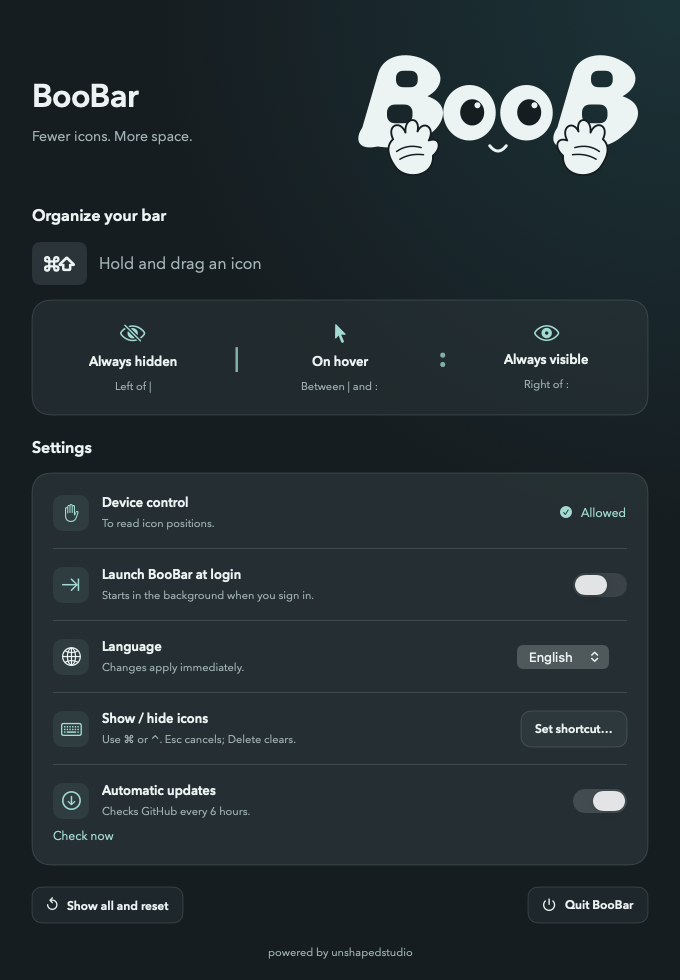
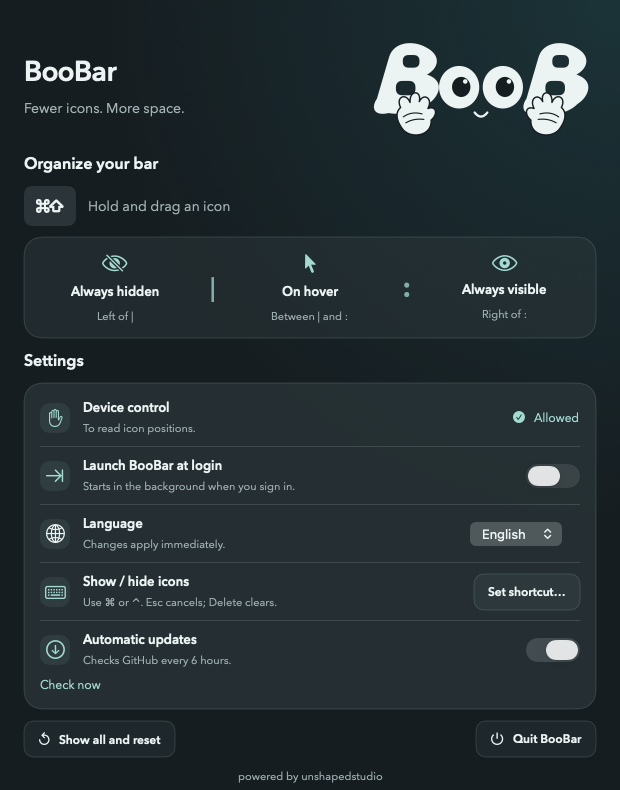
Compact settings layout while preserving readable controls

diff --git a/Sources/BooBar/SettingsView.swift b/Sources/BooBar/SettingsView.swift
@@ -6,26 +6,26 @@ struct SettingsView: View {
 
     var body: some View {
         ScrollView {
-        VStack(alignment: .leading, spacing: 22) {
+        VStack(alignment: .leading, spacing: 12) {
             HStack(spacing: 16) {
                 VStack(alignment: .leading, spacing: 8) {
-                    Text("BooBar").font(BooPalette.font(32, strong: true)).tracking(-0.6)
+                    Text("BooBar").font(BooPalette.font(28, strong: true)).tracking(-0.6)
                     Text(text(.tagline))
                         .font(BooPalette.font(14)).foregroundStyle(BooPalette.muted)
                 }
                 Spacer(minLength: 0)
-                AnimatedMascot(active: controller.settingsVisible)
+                AnimatedMascot(active: controller.settingsVisible, width: 230)
                     .accessibilityLabel(text(.mascot))
             }
 
-            VStack(alignment: .leading, spacing: 15) {
+            VStack(alignment: .leading, spacing: 11) {
                 Text(text(.organize)).font(BooPalette.font(16, strong: true))
                 HStack(spacing: 12) {
-                    Text("⌘⇧").font(.system(size: 25, weight: .medium, design: .monospaced))
+                    Text("⌘⇧").font(.system(size: 22, weight: .medium, design: .monospaced))
                         .padding(.horizontal, 12).padding(.vertical, 7)
                         .background(BooPalette.panel, in: RoundedRectangle(cornerRadius: 8))
                         .accessibilityLabel(text(.keys))
-                    Text(text(.drag)).font(BooPalette.font(16)).foregroundStyle(BooPalette.muted)
+                    Text(text(.drag)).font(BooPalette.font(14)).foregroundStyle(BooPalette.muted)
                 }
                 HStack(spacing: 12) {
                     zone(text(.hidden), symbol: "eye.slash", detail: text(.left))
@@ -34,14 +34,14 @@ struct SettingsView: View {
                     wall(":")
                     zone(text(.visible), symbol: "eye", detail: text(.right))
                 }
-                .padding(.horizontal, 18).padding(.vertical, 21)
+                .padding(.horizontal, 14).padding(.vertical, 14)
                 .background(BooPalette.panel.opacity(0.55), in: RoundedRectangle(cornerRadius: 18))
                 .overlay(RoundedRectangle(cornerRadius: 18).stroke(BooPalette.border, lineWidth: 1))
             }
 
-            VStack(alignment: .leading, spacing: 14) {
+            VStack(alignment: .leading, spacing: 11) {
                 Text(text(.settings)).font(BooPalette.font(16, strong: true))
-                VStack(alignment: .leading, spacing: 17) {
+                VStack(alignment: .leading, spacing: 10) {
                     HStack(spacing: 13) {
                         settingIcon("hand.raised")
                         VStack(alignment: .leading, spacing: 4) {
@@ -92,7 +92,7 @@ struct SettingsView: View {
                     HStack(spacing: 13) {
                         Image(systemName: "globe")
                             .font(.system(size: 19, weight: .regular))
-                            .foregroundStyle(BooPalette.text).frame(width: 36, height: 36)
+                            .foregroundStyle(BooPalette.text).frame(width: 30, height: 30)
                             .background(BooPalette.accent.opacity(0.08), in: RoundedRectangle(cornerRadius: 10))
                             .accessibilityHidden(true)
                         VStack(alignment: .leading, spacing: 4) {
@@ -121,7 +121,7 @@ struct SettingsView: View {
                     Rectangle().fill(BooPalette.border).frame(height: 1)
                     UpdateSettings(manager: controller.updater, language: controller.language)
                 }
-                .padding(21)
+                .padding(16)
                 .background(BooPalette.panel.opacity(0.78), in: RoundedRectangle(cornerRadius: 18))
                 .overlay(RoundedRectangle(cornerRadius: 18).stroke(BooPalette.border, lineWidth: 1))
             }
@@ -148,9 +148,9 @@ struct SettingsView: View {
                 Spacer()
             }
         }
-        .padding(.horizontal, 32).padding(.top, 38).padding(.bottom, 28)
+        .padding(.horizontal, 24).padding(.top, 30).padding(.bottom, 20)
         }
-        .frame(width: 680, height: min(980, (NSScreen.main?.visibleFrame.height ?? 1028) - 48))
+        .frame(width: 620, height: min(790, (NSScreen.main?.visibleFrame.height ?? 880) - 100))
         .font(BooPalette.font(13)).foregroundStyle(BooPalette.text)
         .background {
             ZStack {
@@ -178,7 +178,7 @@ struct SettingsView: View {
 
     private func settingIcon(_ name: String) -> some View {
         Image(systemName: name).font(.system(size: 17))
-            .foregroundStyle(BooPalette.accent).frame(width: 36, height: 36)
+            .foregroundStyle(BooPalette.accent).frame(width: 30, height: 30)
             .background(BooPalette.accent.opacity(0.08), in: RoundedRectangle(cornerRadius: 10))
             .accessibilityHidden(true)
     }
@@ -197,7 +197,7 @@ private struct UpdateSettings: View {
         VStack(alignment: .leading, spacing: 9) {
             HStack(spacing: 13) {
                 Image(systemName: "arrow.down.circle").font(.system(size: 19))
-                    .foregroundStyle(BooPalette.accent).frame(width: 36, height: 36)
+                    .foregroundStyle(BooPalette.accent).frame(width: 30, height: 30)
                     .background(BooPalette.accent.opacity(0.08), in: RoundedRectangle(cornerRadius: 10))
                     .accessibilityHidden(true)
                 VStack(alignment: .leading, spacing: 4) {

diff --git a/Sources/BooBar/AnimatedMascot.swift b/Sources/BooBar/AnimatedMascot.swift
@@ -117,6 +117,7 @@ enum BooVector {
 
 struct MascotFrame: View {
     let pose: MascotPose
+    var width: CGFloat = 300
     var body: some View {
         Canvas { context, size in
             let scale = min(size.width / 400, size.height / 190)
@@ -131,7 +132,7 @@ struct MascotFrame: View {
                 }
             }
         }
-        .frame(width: 300, height: 145)
+        .frame(width: width, height: width * 145 / 300)
         .accessibilityElement(children: .ignore)
         .accessibilityLabel("BooB")
     }
@@ -139,11 +140,12 @@ struct MascotFrame: View {
 
 struct AnimatedMascot: View {
     let active: Bool
+    var width: CGFloat = 300
     @Environment(\.accessibilityReduceMotion) private var reduceMotion
     @State private var started = Date()
     var body: some View {
         TimelineView(.animation(minimumInterval: 1.0 / 30, paused: !active || reduceMotion)) { context in
-            MascotFrame(pose: active ? .at(context.date.timeIntervalSince(started), reducedMotion: reduceMotion) : .resting)
+            MascotFrame(pose: active ? .at(context.date.timeIntervalSince(started), reducedMotion: reduceMotion) : .resting, width: width)
         }
         .onChange(of: active) { _, visible in if visible { started = Date() } }
     }

diff --git a/DESIGN.md b/DESIGN.md
@@ -13,7 +13,7 @@ colors:
 typography:
   display:
     fontFamily: AvenirNext-DemiBold
-    fontSize: 32px
+    fontSize: 28px
     letterSpacing: -0.6px
   title:
     fontFamily: AvenirNext-DemiBold
@@ -101,13 +101,13 @@ Source: [BooPalette.swift](Sources/BooBar/BooPalette.swift); warning and panel o
 
 ### Hierarchy
 
-The frontmatter records the reused display, section-title, body, action-label and caption styles. The subtitle uses regular Avenir Next (14pt); row titles use DemiBold (13pt); helper and inline-action text also use regular (12pt). The Command-Shift badge uses 25pt system monospace, with 16pt instruction text. SwiftUI supplies line metrics; there is no custom line-height or font fallback declaration.
+The frontmatter records the reused display, section-title, body, action-label and caption styles. The subtitle uses regular Avenir Next (14pt); row titles use DemiBold (13pt); helper and inline-action text also use regular (12pt). The Command-Shift badge uses 22pt system monospace, with 16pt instruction text. SwiftUI supplies line metrics; there is no custom line-height or font fallback declaration.
 
 Sources: `BooPalette.font` and [SettingsView.swift](Sources/BooBar/SettingsView.swift). Portable frontmatter uses pixel labels for the observed numeric values; native SwiftUI geometry and type are measured in points.
 
 ## Layout
 
-The current Operate surface is a fixed-width panel (680pt), with a scrollable height capped at 980pt and the available screen height. Horizontal inset is the frontmatter token; top/bottom insets are 38/28pt. The header places title and subtitle beside a mascot frame (300 × 145pt). The three-zone ribbon, settings rows and footer form a single vertical composition without a sidebar. Pending permissions and service notices expand the height. No responsive breakpoint is implemented.
+The current Operate surface is a fixed-width panel (620pt), with a scrollable height capped at 790pt and the available screen height. Horizontal inset is the frontmatter token; top/bottom insets are 30/20pt. The header places title and subtitle beside a mascot frame (230 × 111pt). The three-zone ribbon, settings rows and footer form a single vertical composition without a sidebar. Pending permissions and service notices expand the height. No responsive breakpoint is implemented.
 
 Source: [SettingsView.swift](Sources/BooBar/SettingsView.swift). This describes the current surface, rather than requiring all future windows to share its composition.
 
@@ -117,7 +117,7 @@ Depth comes from translucent slate surfaces, fine borders (1pt) and a stationary
 
 ## Shapes
 
-Panels use the broad rounded token; controls and setting-icon tiles use the control token; the keyboard badge uses the shortcut token. Icons sit in square tiles (36pt), mint at 8% opacity; the language row uses a monochrome native vector globe, identical in both languages; no country flags. Preserve the mascot's open silhouette and two central eyes; no white rectangular tile surrounds it.
+Panels use the broad rounded token; controls and setting-icon tiles use the control token; the keyboard badge uses the shortcut token. Icons sit in square tiles (30pt), mint at 8% opacity; the language row uses a monochrome native vector globe, identical in both languages; no country flags. Preserve the mascot's open silhouette and two central eyes; no white rectangular tile surrounds it.
 
 ## Components
 

diff --git a/README.md b/README.md
@@ -10,7 +10,7 @@ powered by [unshapedstudio](https://unshapedstudio.com/)
 
 Hide the menu bar icons you rarely use. Three zones: **always visible, reveal on hover, always hidden**. Hold **⌘⇧** and drag icons to organize them.
 
-### [Download DMG — Apple Silicon + Intel](https://github.com/marcovernetto-lgtm/BooBar/releases/download/v0.7.0/BooBar-0.7.0-universal.dmg)
+### [Download DMG — Apple Silicon + Intel](https://github.com/marcovernetto-lgtm/BooBar/releases/download/v0.7.1/BooBar-0.7.1-universal.dmg)
 
 Requires **macOS 27**. Open the DMG and drag **BooBar → Applications**. BooBar guides you through the required permission.
 
@@ -22,7 +22,7 @@ English/Italian. Custom keyboard shortcut, automatic updates from GitHub, option
 
 Nascondi le icone che usi meno nella barra menu. Tre zone: **sempre visibili, al passaggio, sempre nascoste**. Tieni **⌘⇧** e trascina le icone per organizzarle.
 
-### [Scarica DMG — Apple Silicon + Intel](https://github.com/marcovernetto-lgtm/BooBar/releases/download/v0.7.0/BooBar-0.7.0-universal.dmg)
+### [Scarica DMG — Apple Silicon + Intel](https://github.com/marcovernetto-lgtm/BooBar/releases/download/v0.7.1/BooBar-0.7.1-universal.dmg)
 
 Richiede **macOS 27**. Apri il DMG e trascina **BooBar → Applicazioni**. BooBar ti guida nel concedere il permesso necessario.
 

diff --git a/docs/RELEASE-0.7.1.md b/docs/RELEASE-0.7.1.md
@@ -1,0 +1,10 @@
+# BooBar 0.7.1 — compact settings
+
+Settings reduced from 680 × 980 to 620 × 790 points, capped further on smaller screens. Approximately 27% less area. Smaller vector header, tighter row spacing and 30pt icon tiles. Setting titles/captions remain 13/11pt, buttons remain at least 36pt high. Reset left, quit right and studio credit preserved. Scrolling handles permission helpers and error messages.
+
+Native render test passed for both languages, both system appearances and granted/missing permission. Actual captures inspected. Release compiled for arm64 and x86_64, signed with the existing identity. No interaction, hotkey or updater logic changed; their 20+20-test and installed-update evidence is recorded in RELEASE-0.7.0.md.
+
[2 lines of base64/hex data omitted]
+
+Not a physical Intel or live keyboard test. Apple notarization unchanged/unavailable.
